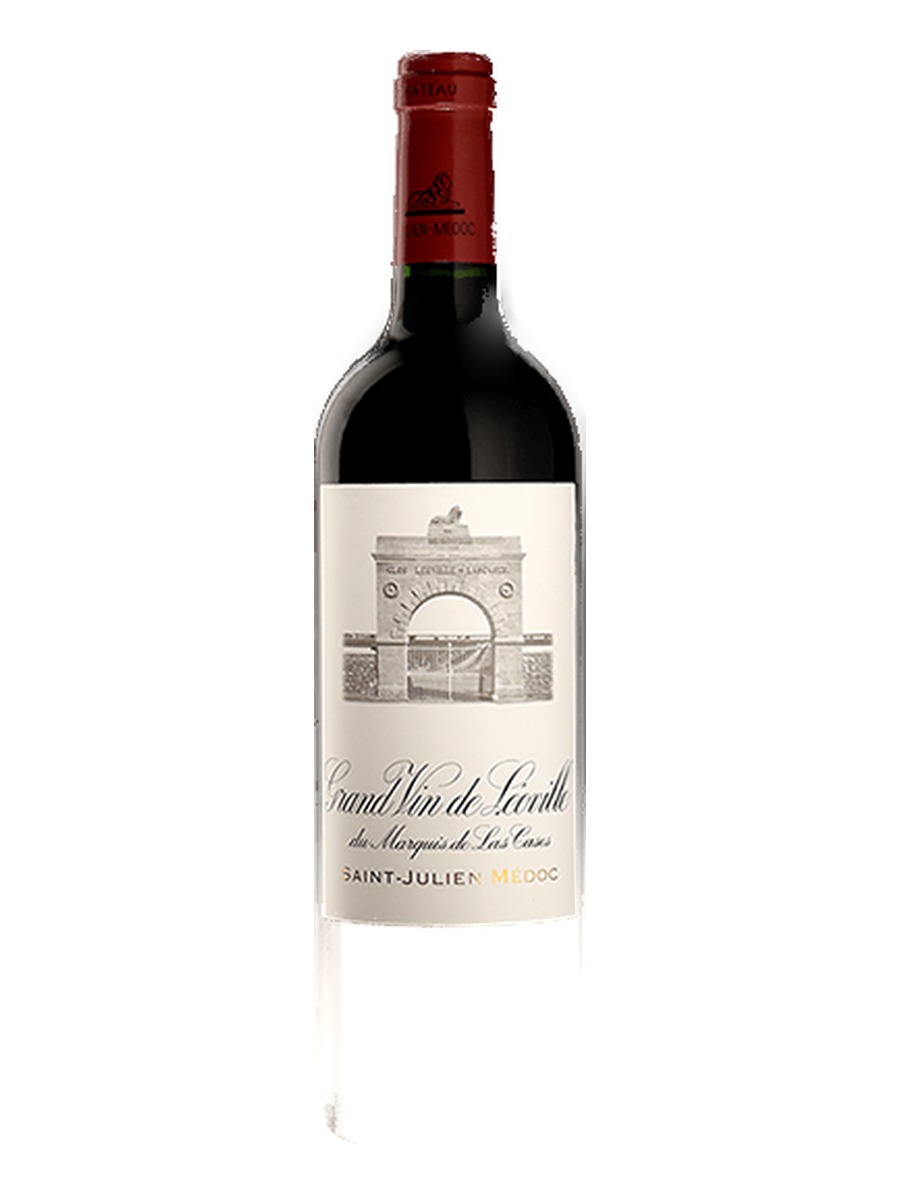
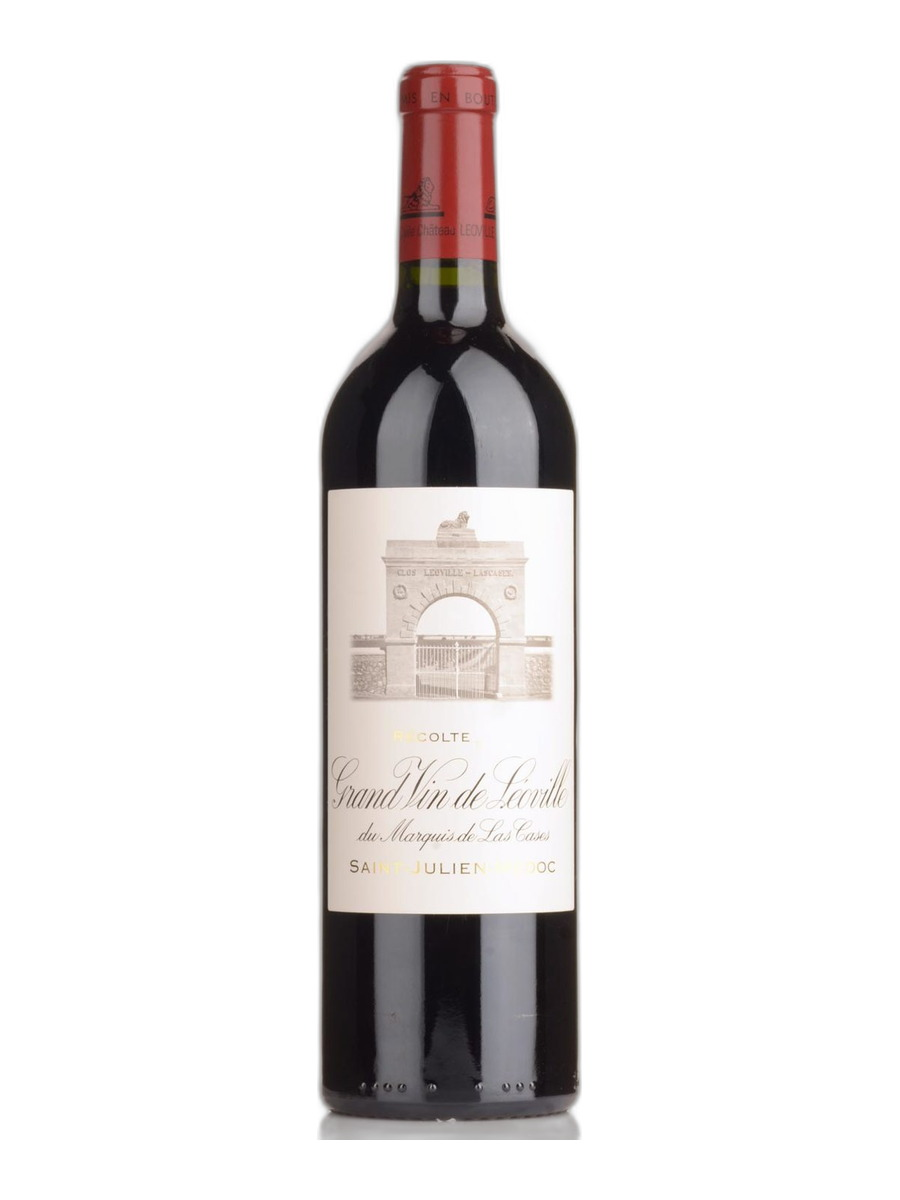
Fix reviewed wine photos

Changed region(s): [[0.3422, 0.0308, 0.6533, 0.9558]]

diff --git a/app.js b/app.js
@@ -59,7 +59,7 @@
 
   const PREF_KEY = "wine-cellar-pref";
   const SEED_KEY = "wine-cellar-seed-version";
-  const SEED_VERSION = "user-wine-list-2026-06-28-review-rembg-photos-v2";
+  const SEED_VERSION = "user-wine-list-2026-06-28-review-photo-fixes";
   const SEED_TSV = `status	type	country_code	country_name	name	vintage
 cellar	red	FR	프랑스	프리에르 로크, 르 끌라우드	2019
 cellar	red	FR	프랑스	Moillard Gevrey-Chambertin	2018
@@ -467,7 +467,6 @@ drunk	sparkling	FR	프랑스	도츠`;
     "seed-004": "wine-images/review-004.jpg",
     "seed-005": "wine-images/review-005.jpg",
     "seed-006": "wine-images/review-006.jpg",
-    "seed-007": "wine-images/review-007.jpg",
     "seed-008": "wine-images/review-008.jpg",
     "seed-009": "wine-images/review-009.jpg",
     "seed-010": "wine-images/review-010.jpg",
@@ -714,6 +713,7 @@ drunk	sparkling	FR	프랑스	도츠`;
       if (photo && (!(wine.photo || "").trim() || isDefaultPhoto(wine.photo))) {
         updates.photo = photo;
       }
+      if (!photo && isDefaultPhoto(wine.photo)) updates.photo = null;
       if (!DEFAULT_PHOTO_AUTOFILL_ENABLED && isDefaultPhoto(wine.photo)) updates.photo = null;
       return Object.keys(updates).length ? Object.assign({}, wine, updates) : wine;
     });

diff --git a/index.html b/index.html
@@ -49,6 +49,6 @@
   <div class="backdrop" id="backdrop" hidden></div>
   <section class="sheet" id="sheet" role="dialog" aria-modal="true" hidden></section>
 
-  <script src="app.js?v=20260628-date-clear-no-partial-photos"></script>
+  <script src="app.js?v=20260628-review-photo-fixes"></script>
 </body>
 </html>
